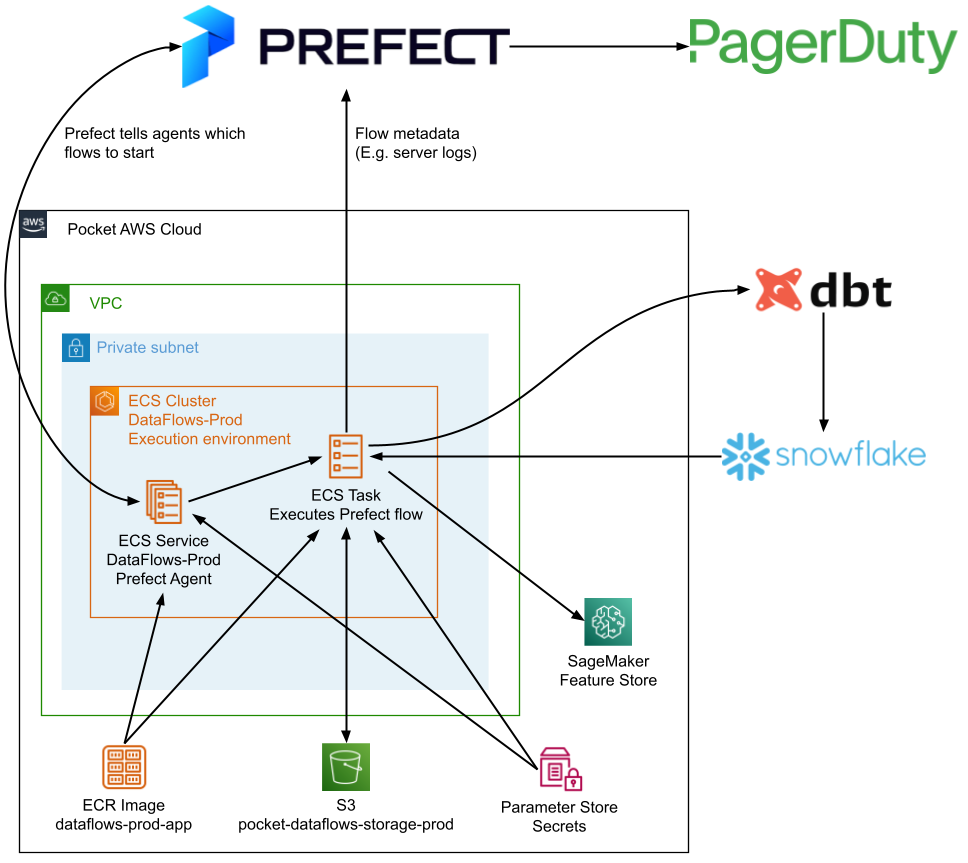
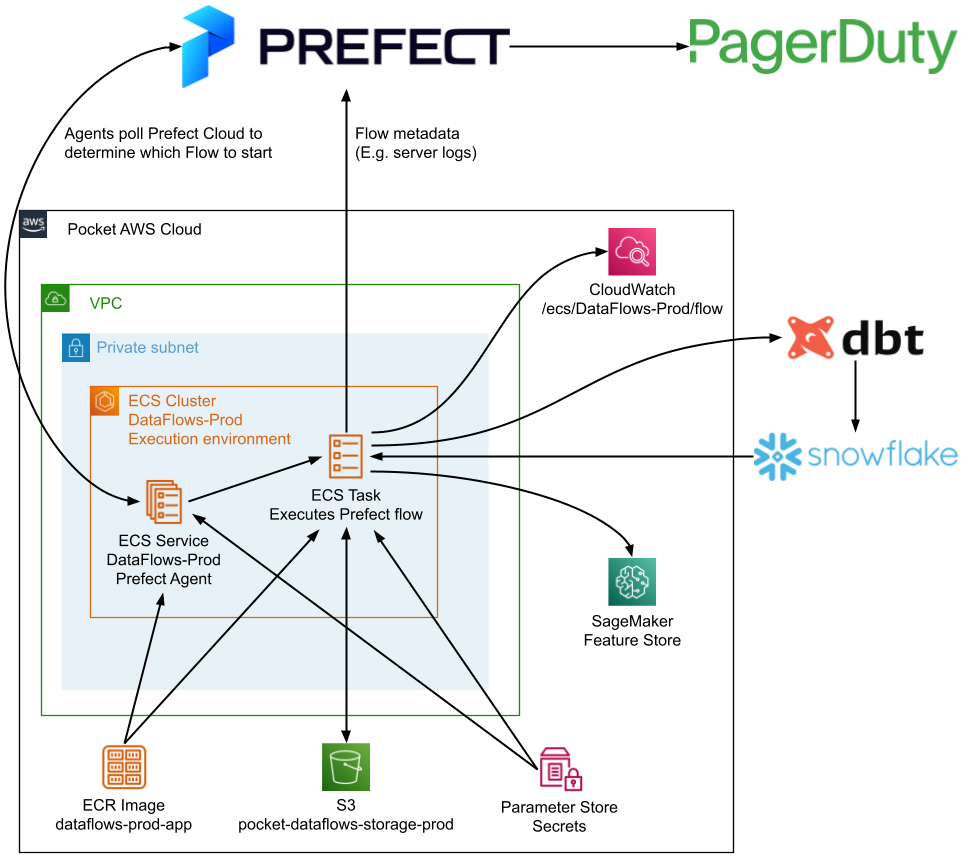
Add architecture section
Fix image path

Fix image path (2)

Update architecture diagram

diff --git a/README.md b/README.md
@@ -1,6 +1,15 @@
 # data-flows
 Data flows orchestrated using [Prefect](https://prefect.io).
 
+## Architecture
+
+- **ECS** runs Prefect Agent and Flow tasks
+- **Docker image** stores Flow code and libraries
+- **Auto-scaling** Prefect Agent
+- **Permissions** according to the [principle of least privilege](https://en.wikipedia.org/wiki/Principle_of_least_privilege).
+
+![Image](docs/images/Pocket_Prefect_Architecture.png?raw=true)
+
 ## Local development environment
 We use two environments in this repo:
 1. A Python environment, for writing Prefect Flows. Code is located in `src/`.
